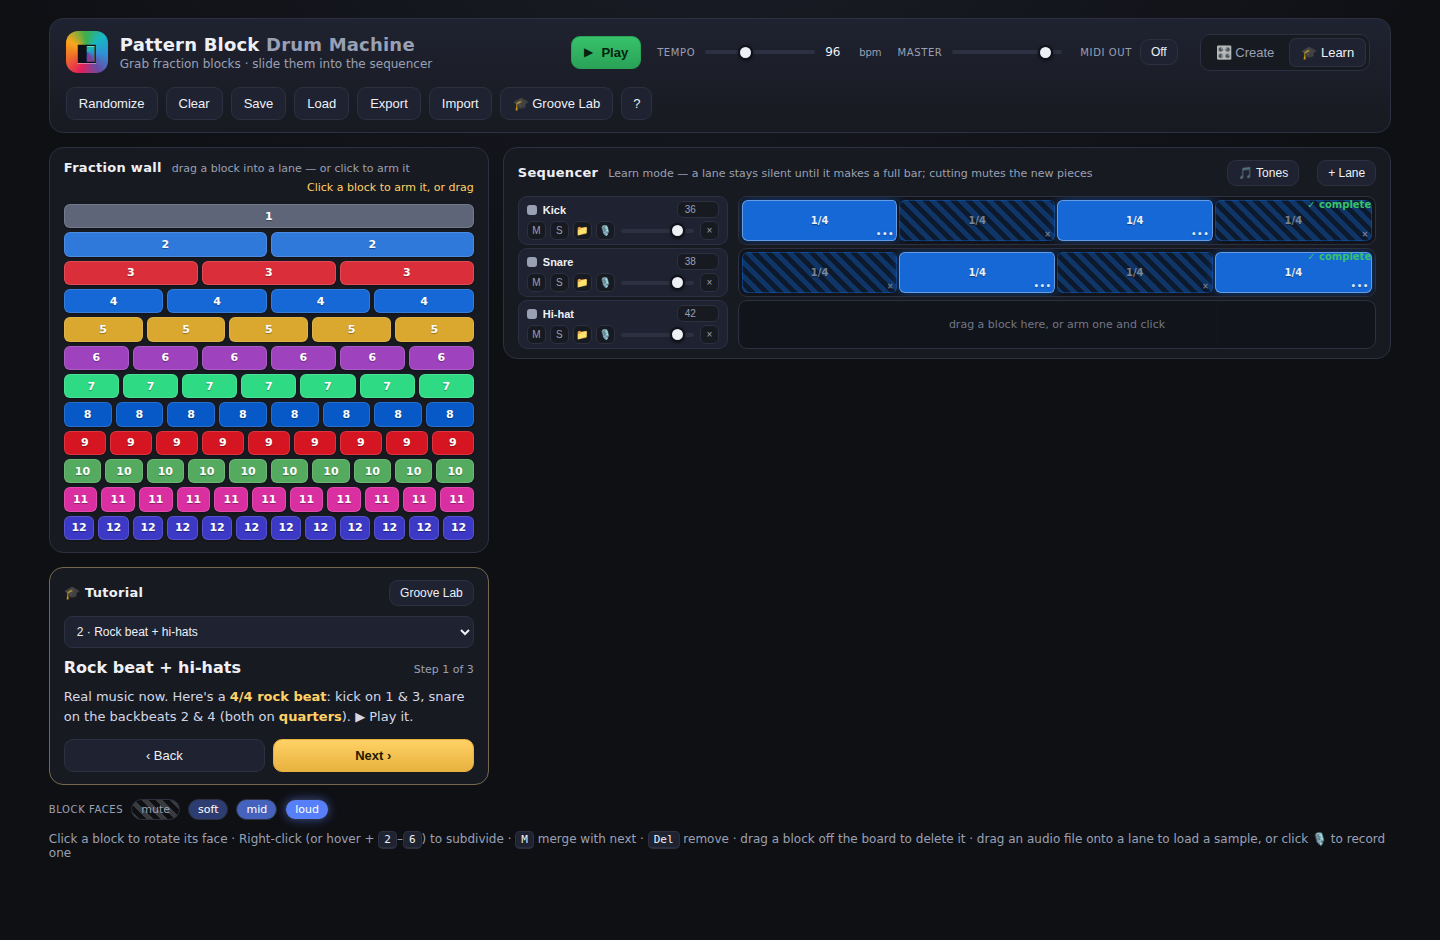
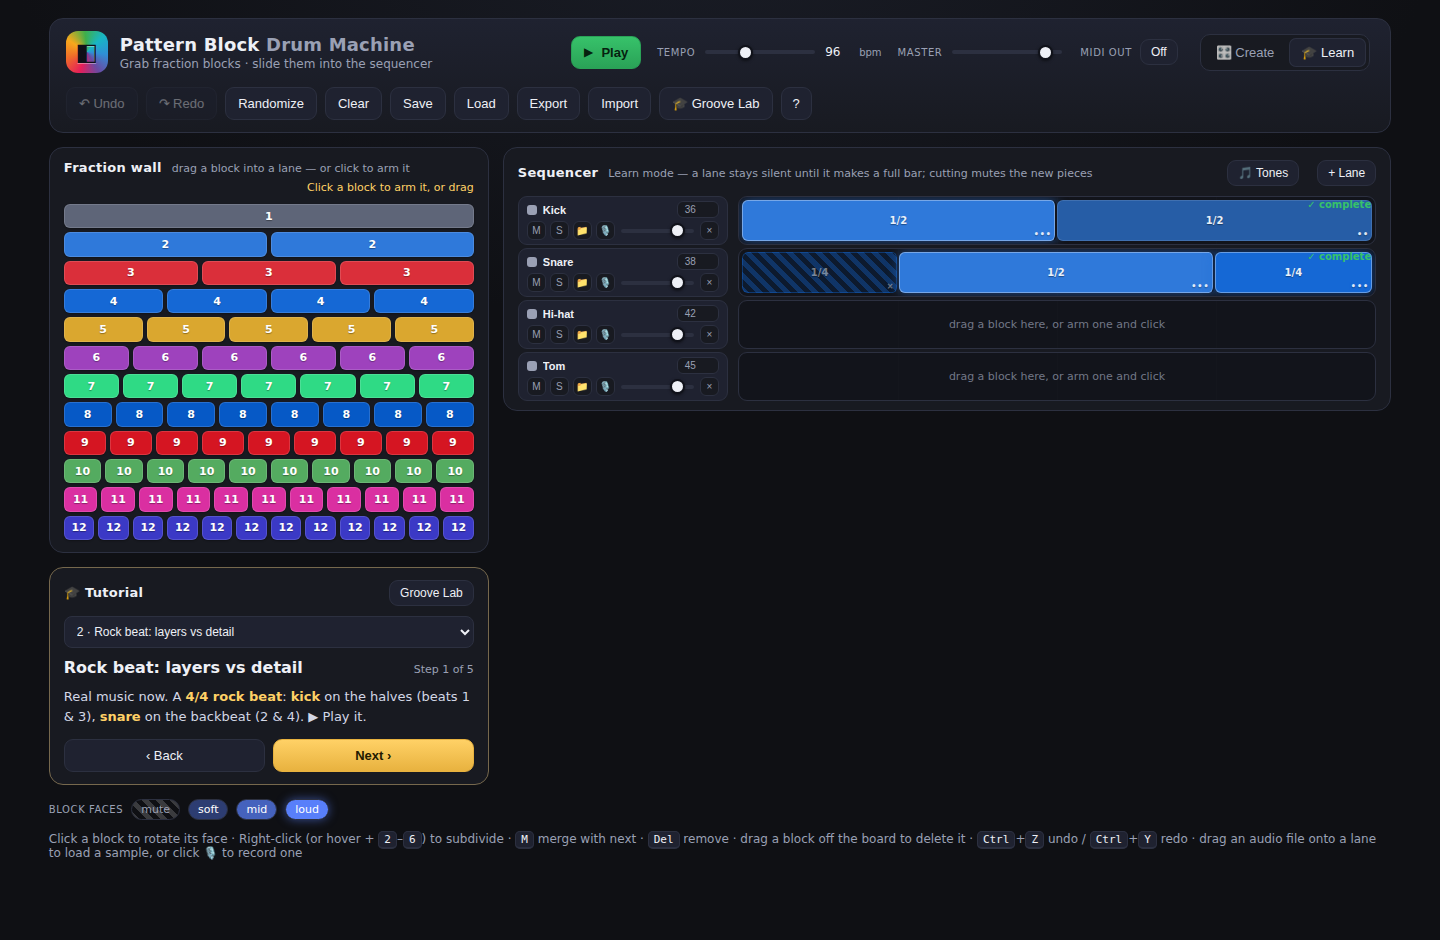
Add undo/redo; flesh out lessons with layers and the "new prime changes feel" idea
Undo/redo:
- Ctrl+Z / Ctrl+Y (and Ctrl+Shift+Z) plus toolbar buttons, disabled when
  their stack is empty.
- Every mutating edit (place, move, delete, rotate, subdivide, merge,
  clear, randomize, add/remove lane, cycle voice, load/record sample,
  load/import) snapshots first. Snapshots are in-memory and keep
  AudioBuffer references, so undo never drops a loaded/recorded sample
  (plain serialize would). History resets on mode/lesson change.
- Mode memory now uses the same buffer-preserving snapshot.

Lessons/kit:
- Default kick is now two halves (beats 1 & 3).
- Lesson 2 reworked to "layers vs detail": rock kick(halves)+backbeat
  snare, add eighth hats (still all 2s -> locks, same feel), then a lane
  of thirds (new factor of 3 -> the groove changes). Teaches that detail
  in the same prime family adds density while a new prime changes feel.
- Lesson 3 blues now has a ba-bum kick and a backbeat snare, and the ride
  uses the open-hat voice instead of the rimshot.

Cache-bust bumped to v=13.

Claude-Session: https://claude.ai/code/session_01JLy3ZtVPaGqb343nudpiEm

diff --git a/app.js b/app.js
@@ -139,8 +139,8 @@ function registerAllFractions() {
 function seedDefault() {
   laneSeq = 0;
   state.lanes = [
-    // Kick: beat 1 (a half) then beat 3.
-    newLane(0, [blk(1, 2, 'loud'), blk(1, 4, 'loud'), blk(1, 4, 'mute')]),
+    // Kick: on the halves — beats 1 & 3.
+    newLane(0, [blk(1, 2, 'loud'), blk(1, 2, 'mid')]),
     // Snare: on the backbeats — quarter of silence, then a half (beat 2), then a
     // quarter (beat 4). Hits land on 2 and 4.
     newLane(1, [blk(1, 4, 'mute'), blk(1, 2, 'loud'), blk(1, 4, 'loud')]),
@@ -746,12 +746,14 @@ function capacityLabel(sumFrac) {
 
 /* ------------------------------ block ops ------------------------------ */
 function rotateFace(lane, bi) {
+  pushUndo();
   const b = lane.blocks[bi];
   b.face = FACES[(FACES.indexOf(b.face) + 1) % FACES.length];
   markDirty(); renderSeq();
 }
 
 function subdivide(li, bi, k) {
+  pushUndo();
   const lane = state.lanes[li];
   const b = lane.blocks[bi];
   // In Learn mode, cutting keeps only the first piece sounding and mutes the
@@ -768,6 +770,7 @@ function subdivide(li, bi, k) {
 function mergeWithNext(li, bi) {
   const lane = state.lanes[li];
   if (bi >= lane.blocks.length - 1) { toast('Nothing after this block to merge'); return; }
+  pushUndo();
   const a = lane.blocks[bi], b = lane.blocks[bi + 1];
   const n = a.n * b.d + b.n * a.d;
   const d = a.d * b.d;
@@ -777,6 +780,7 @@ function mergeWithNext(li, bi) {
 }
 
 function deleteBlock(li, bi) {
+  pushUndo();
   state.lanes[li].blocks.splice(bi, 1);
   markDirty(); renderSeq();
 }
@@ -785,6 +789,7 @@ function insertBlock(li, index, block) {
   const lane = state.lanes[li];
   const sum = laneSum(lane);
   if (sum + fval(block) > 1 + 1e-6) return false;   // would overflow the bar
+  pushUndo();
   lane.blocks.splice(index, 0, block);
   markDirty(); renderSeq();
   return true;
@@ -806,19 +811,16 @@ function handleBlockDrop(e, li, track) {
   let index = dropIndexFor(track, e.clientX);
 
   if (d.kind === 'move') {
-    // remove from source first (adjust index if same lane and before insert point)
     const src = state.lanes[d.fromLane];
-    const moved = src.blocks.splice(d.fromIdx, 1)[0];
-    if (d.fromLane === li && d.fromIdx < index) index--;
     const target = state.lanes[li];
-    const sumWithout = laneSum(target);
-    if (sumWithout + fval(moved) > 1 + 1e-6) {
-      // doesn't fit — put it back
-      src.blocks.splice(d.fromIdx, 0, moved);
-      rejectFlash(track); toast('No room in that lane');
-    } else {
-      target.blocks.splice(index, 0, moved);
-    }
+    const moved = src.blocks[d.fromIdx];
+    // does it fit? (moving within a lane doesn't change that lane's total)
+    const targetSum = laneSum(target) - (d.fromLane === li ? fval(moved) : 0);
+    if (targetSum + fval(moved) > 1 + 1e-6) { rejectFlash(track); toast('No room in that lane'); return; }
+    pushUndo();
+    src.blocks.splice(d.fromIdx, 1);
+    if (d.fromLane === li && d.fromIdx < index) index--;
+    target.blocks.splice(index, 0, moved);
     markDirty(); renderSeq();
   } else {
     if (!insertBlock(li, index, blk(d.n, d.d, d.face))) {
@@ -834,15 +836,18 @@ function rejectFlash(track) {
 
 /* ------------------------------ lanes ---------------------------------- */
 function addLane() {
+  pushUndo();
   state.lanes.push(newLane(state.lanes.length));
   if (ctx) ensureLaneNode(state.lanes[state.lanes.length - 1]);
   markDirty(); applyLaneGains(); renderSeq();
 }
 function removeLane(li) {
+  pushUndo();
   state.lanes.splice(li, 1);
   markDirty(); applyLaneGains(); renderSeq();
 }
 function cycleVoice(lane) {
+  pushUndo();
   stopSources(lane);
   lane.voice = (lane.voice + 1) % VOICES.length;
   lane.buffer = null;
@@ -862,6 +867,7 @@ async function decodeInto(lane, file) {
   try {
     const buf = await file.arrayBuffer();
     const audio = await ctx.decodeAudioData(buf);
+    pushUndo();
     stopSources(lane);                    // cut the old sample if it's still playing
     lane.buffer = audio;
     lane.name = file.name.replace(/\.[^.]+$/, '');
@@ -1112,6 +1118,7 @@ function sliceBuffer(buffer, startFrac, endFrac) {
 
 function useRecording() {
   if (!recBuffer || !recLane) return;
+  pushUndo();
   stopSources(recLane);
   recLane.buffer = sliceBuffer(recBuffer, recTrim.start, recTrim.end);
   recLane.name = 'Rec ' + ++recCounter;
@@ -1160,6 +1167,66 @@ function toast(msg) {
   toastTimer = setTimeout(() => (t.hidden = true), 1800);
 }
 
+/* ------------------------------ undo / redo ---------------------------- */
+// In-memory snapshots (unlike serialize(), these keep AudioBuffer references so
+// undoing an edit doesn't drop a lane's loaded/recorded sample).
+let undoStack = [], redoStack = [];
+const UNDO_LIMIT = 200;
+
+function snapshotState() {
+  return {
+    bpm: state.bpm, master: state.master, tones: state.tones,
+    denominators: state.denominators.slice(),
+    lanes: state.lanes.map((l) => ({
+      id: l.id, name: l.name, voice: l.voice, gain: l.gain, muted: l.muted, solo: l.solo,
+      midi: l.midi, buffer: l.buffer,
+      blocks: l.blocks.map((b) => ({ n: b.n, d: b.d, face: b.face })),
+    })),
+  };
+}
+function restoreState(snap) {
+  stopSources();
+  state.bpm = snap.bpm; state.master = snap.master; state.tones = !!snap.tones;
+  state.denominators = snap.denominators.slice();
+  state.lanes = snap.lanes.map((s) => {
+    const lane = newLane(s.voice, s.blocks.map((b) => blk(b.n, b.d, b.face)));
+    lane.id = s.id; lane.name = s.name; lane.gain = s.gain; lane.muted = s.muted;
+    lane.solo = s.solo; lane.midi = s.midi; lane.buffer = s.buffer || null;
+    return lane;
+  });
+  laneSeq = state.lanes.reduce((m, l) => Math.max(m, l.id), laneSeq);
+  if (masterNode) masterNode.gain.setTargetAtTime(state.master, ctx.currentTime, 0.01);
+  if (ctx) { state.lanes.forEach(ensureLaneNode); applyLaneGains(); }
+  registerAllFractions();
+  syncControls(); markDirty(); renderPalette(); renderSeq();
+}
+
+// Call before any pattern-mutating edit.
+function pushUndo() {
+  undoStack.push(snapshotState());
+  if (undoStack.length > UNDO_LIMIT) undoStack.shift();
+  redoStack.length = 0;
+  updateUndoButtons();
+}
+function clearUndo() { undoStack.length = 0; redoStack.length = 0; updateUndoButtons(); }
+function undo() {
+  if (!undoStack.length) { toast('Nothing to undo'); return; }
+  redoStack.push(snapshotState());
+  restoreState(undoStack.pop());
+  updateUndoButtons();
+}
+function redo() {
+  if (!redoStack.length) { toast('Nothing to redo'); return; }
+  undoStack.push(snapshotState());
+  restoreState(redoStack.pop());
+  updateUndoButtons();
+}
+function updateUndoButtons() {
+  const u = $('#undoBtn'), r = $('#redoBtn');
+  if (u) u.disabled = !undoStack.length;
+  if (r) r.disabled = !redoStack.length;
+}
+
 /* ------------------------------ persistence ---------------------------- */
 const SAVE_KEY = 'pbdm.pattern.v1';
 function serialize() {
@@ -1194,7 +1261,7 @@ function saveLocal() { localStorage.setItem(SAVE_KEY, JSON.stringify(serialize()
 function loadLocal() {
   const raw = localStorage.getItem(SAVE_KEY);
   if (!raw) { toast('Nothing saved yet'); return; }
-  try { deserialize(JSON.parse(raw)); toast('Loaded save'); } catch { toast('Save was corrupt'); }
+  try { pushUndo(); deserialize(JSON.parse(raw)); toast('Loaded save'); } catch { toast('Save was corrupt'); }
 }
 function exportJSON() {
   const blob = new Blob([JSON.stringify(serialize(), null, 2)], { type: 'application/json' });
@@ -1205,6 +1272,7 @@ function exportJSON() {
 
 /* ------------------------------ randomize ------------------------------ */
 function randomize() {
+  pushUndo();
   const choices = [
     [[2, 'a'], [4, 'a']], // halves/quarters
     [[3, 'a']], [[4, 'a']], [[5, 'a']], [[6, 'a']], [[8, 'a']],
@@ -1230,6 +1298,7 @@ function randomize() {
 }
 
 function clearAll() {
+  pushUndo();
   state.lanes.forEach((l) => (l.blocks = []));
   markDirty(); renderSeq();
 }
@@ -1239,13 +1308,14 @@ let createSnapshot = null;   // remembers the Create-mode pattern while in Learn
 
 function setMode(mode) {
   if (mode === state.mode) return;
+  clearUndo();   // undo history is scoped to the current editing context
   if (mode === 'learn') {
-    createSnapshot = serialize();          // stash the free-play pattern
+    createSnapshot = snapshotState();      // stash the free-play pattern (keeps samples)
     state.mode = 'learn';
     enterLesson(state.lesson || 0);        // reset the board for the tutorial
   } else {
     state.mode = 'create';
-    if (createSnapshot) { deserialize(createSnapshot); createSnapshot = null; }   // bring it back
+    if (createSnapshot) { restoreState(createSnapshot); createSnapshot = null; }   // bring it back
     else { markDirty(); renderSeq(); }
   }
   $('#modeCreate').classList.toggle('active', mode === 'create');
@@ -1298,28 +1368,32 @@ const LESSONS = [
     ],
   },
   {
-    name: '2 · Rock beat + hi-hats',
+    name: '2 · Rock beat: layers vs detail',
     setup: () => tutLanes([
-      { voice: 0, name: 'Kick', blocks: [q('loud'), q('mute'), q('loud'), q('mute')] },
-      { voice: 1, name: 'Snare', blocks: [q('mute'), q('loud'), q('mute'), q('loud')] },
+      { voice: 0, name: 'Kick', blocks: [half('loud'), half('mid')] },
+      { voice: 1, name: 'Snare', blocks: [q('mute'), half('loud'), q('loud')] },
       { voice: 3, name: 'Hi-hat' },
+      { voice: 5, name: 'Tom' },
     ]),
     steps: [
-      { text: "Real music now. Here's a <b>4/4 rock beat</b>: kick on 1 & 3, snare on the backbeats 2 & 4 (both on <b>quarters</b>). ▶ Play it." },
-      { text: "Add <b>hi-hats</b>: fill the Hi-hat lane with <b>eighths</b> (⅛). Drag in ⅛ blocks, or place a quarter and cut it in two.", done: () => laneAllUnit(2, 8) },
-      { text: "Now three lanes share the <b>eighth-note grid</b>. But <b>8 is a multiple of 4</b> — the hats land exactly on and between the quarters. They <b>lock</b>: no cross-rhythm, just finer detail. That's why straight rock feels solid, not swung." },
+      { text: "Real music now. A <b>4/4 rock beat</b>: <b>kick</b> on the halves (beats 1 & 3), <b>snare</b> on the backbeat (2 & 4). ▶ Play it." },
+      { text: "Add <b>hi-hats</b>: fill the Hi-hat lane with <b>eighths</b> (⅛).", done: () => laneAllUnit(2, 8) },
+      { text: "Busier — but the <b>same groove</b>, right? 2, 4 and 8 are all made of <b>2s</b>, so they share the eighth grid and <b>lock</b>. A detail that stays in the family doesn't change the feel, just the density." },
+      { text: "Now a detail that <i>does</i>: fill the <b>Tom</b> lane with <b>thirds</b> (⅓).", done: () => laneAllUnit(3, 3) },
+      { text: "Feel the pull? Thirds bring a factor of <b>3</b> the 2-grid never had, so the shared grid leaps (LCM jumps to 24). A detail that adds a <b>new prime</b> changes the <b>feel</b> — that's the line between 'busier' and 'a new groove'." },
     ],
   },
   {
     name: '3 · Blues shuffle (6/8)',
     setup: () => tutLanes([
-      { voice: 0, name: 'Pulse', blocks: [half('loud'), half('loud')] },
-      { voice: 7, name: 'Ride' },
+      { voice: 0, name: 'Kick', blocks: [blk(1, 4, 'loud'), blk(1, 8, 'mute'), blk(1, 8, 'loud'), blk(1, 2, 'mute')] },
+      { voice: 1, name: 'Snare', blocks: [q('mute'), half('loud'), q('loud')] },
+      { voice: 4, name: 'Ride' },
     ]),
     steps: [
-      { text: "A <b>blues shuffle</b> feels 'in 2' but rolls underneath. Here's the <b>½-note pulse</b> — the foot-tap. ▶ Play it." },
-      { text: "Now fill the <b>Ride</b> lane with <b>sixths</b> (⅙) — six even swung notes across the bar.", done: () => laneAllUnit(1, 6) },
-      { text: "Hear it? <b>6 lines up with 2</b> (6 is a multiple of 2): every ride note is either on the pulse or exactly between. It <b>locks</b> — but the triplet subdivision gives blues and jazz that rolling <b>shuffle</b> lope. Subdivision makes feel, not just polyrhythm." },
+      { text: "A <b>blues shuffle</b>: a 'ba-bum' kick and a backbeat snare, felt 'in 2'. ▶ Play the bed." },
+      { text: "Add the <b>ride</b>: fill the Ride lane with <b>sixths</b> (⅙) — the shuffle's triplet roll.", done: () => laneAllUnit(2, 6) },
+      { text: "Hear it? <b>6 lines up with 2</b> (6 is a multiple of 2): the triplets land on and between the pulse, so it <b>locks</b> — but that subdivision is the rolling <b>shuffle</b> of blues and jazz. Same trick as the rock hats, funkier flavour." },
     ],
   },
   {
@@ -1353,6 +1427,7 @@ function currentLesson() { return LESSONS[state.lesson] || LESSONS[0]; }
 function currentStep() { return currentLesson().steps[state.step] || currentLesson().steps[0]; }
 
 function enterLesson(li, runSetup = true) {
+  clearUndo();   // a fresh lesson starts a fresh undo history
   state.lesson = Math.max(0, Math.min(LESSONS.length - 1, li));
   state.step = 0;
   if (runSetup && currentLesson().setup) currentLesson().setup();
@@ -1592,6 +1667,8 @@ function wireControls() {
     if (midiAccess) midiOut = midiAccess.outputs.get(e.target.value) || midiOut;
   });
 
+  $('#undoBtn').addEventListener('click', undo);
+  $('#redoBtn').addEventListener('click', redo);
   $('#modeCreate').addEventListener('click', () => setMode('create'));
   $('#modeLearn').addEventListener('click', () => setMode('learn'));
   $('#tonesToggle').addEventListener('click', toggleTones);
@@ -1623,7 +1700,7 @@ function wireControls() {
   });
   $('#jsonInput').addEventListener('change', async (e) => {
     const f = e.target.files[0];
-    if (f) { try { deserialize(JSON.parse(await f.text())); toast('Imported'); } catch { toast('Invalid JSON'); } }
+    if (f) { try { const data = JSON.parse(await f.text()); pushUndo(); deserialize(data); toast('Imported'); } catch { toast('Invalid JSON'); } }
     e.target.value = '';
   });
 
@@ -1637,6 +1714,12 @@ function wireControls() {
     }
     if (recOpen || labOpen || helpOpen) return;   // don't fire board shortcuts behind a modal
     if (e.target.matches('input, textarea')) return;
+    // Undo / redo (Ctrl/Cmd+Z, Ctrl/Cmd+Y or Shift+Z)
+    if (e.ctrlKey || e.metaKey) {
+      const k = e.key.toLowerCase();
+      if (k === 'z' && !e.shiftKey) { e.preventDefault(); undo(); return; }
+      if (k === 'y' || (k === 'z' && e.shiftKey)) { e.preventDefault(); redo(); return; }
+    }
     if (e.code === 'Space') { e.preventDefault(); state.playing ? stop() : play(); return; }
     if (e.key === 'Escape' && armed) { disarm(); return; }
     if (!hoverTarget) return;

diff --git a/index.html b/index.html
@@ -5,7 +5,7 @@
   <meta name="viewport" content="width=device-width, initial-scale=1.0" />
   <title>Pattern Block Drum Machine</title>
   <meta name="description" content="Grab fraction blocks from the wall and slide them into a sampler sequencer. Rotate block faces for dynamics, subdivide beats." />
-  <link rel="stylesheet" href="styles.css?v=12" />
+  <link rel="stylesheet" href="styles.css?v=13" />
 </head>
 <body>
   <div id="app">
@@ -47,6 +47,8 @@
       </div>
 
       <div class="tools">
+        <button id="undoBtn" class="btn" title="Undo (Ctrl+Z)" disabled>↶ Undo</button>
+        <button id="redoBtn" class="btn" title="Redo (Ctrl+Y)" disabled>↷ Redo</button>
         <button id="randomize" class="btn" title="Randomize a pattern">Randomize</button>
         <button id="clear" class="btn" title="Empty every lane">Clear</button>
         <button id="save" class="btn" title="Save to this browser">Save</button>
@@ -112,6 +114,7 @@
       <div class="legend-hint">
         Click a block to rotate its face · Right-click (or hover + <kbd>2</kbd>–<kbd>6</kbd>) to subdivide ·
         <kbd>M</kbd> merge with next · <kbd>Del</kbd> remove · drag a block off the board to delete it ·
+        <kbd>Ctrl</kbd>+<kbd>Z</kbd> undo / <kbd>Ctrl</kbd>+<kbd>Y</kbd> redo ·
         drag an audio file onto a lane to load a sample, or click 🎙 to record one
       </div>
     </footer>
@@ -233,6 +236,6 @@
   <input id="fileInput" type="file" accept="audio/*" hidden />
   <input id="jsonInput" type="file" accept="application/json,.json" hidden />
 
-  <script src="app.js?v=12"></script>
+  <script src="app.js?v=13"></script>
 </body>
 </html>

diff --git a/styles.css b/styles.css
@@ -99,6 +99,8 @@ input[type=range]::-moz-range-thumb {
 }
 .btn:hover { background: #262a3a; border-color: #3a4055; }
 .btn:active { transform: translateY(1px); }
+.btn:disabled { opacity: .38; cursor: not-allowed; }
+.btn:disabled:hover { background: var(--panel-2); border-color: var(--line); }
 .btn-ghost { padding: 8px 11px; }
 .btn-sm { padding: 5px 10px; font-size: 12px; margin-left: auto; }
 

diff --git a/README.md b/README.md
@@ -92,11 +92,14 @@ you switch out. It's a set of lessons you can step through or jump between:
 
 1. **Polyrhythm basics** — build a 2-against-3, then solve *cut the pieces until
    both lanes are the same size* and discover they meet at **sixths** (the LCM).
-2. **Rock beat + hi-hats** — a real 4/4 kick-and-backbeat; add eighth-note hats
-   and see that because `8` is a multiple of `4` they **lock** — finer detail, no
-   cross-rhythm. That's why straight rock feels solid.
-3. **Blues shuffle (6/8)** — a half-note pulse with sixths over it; `6` lines up
-   with `2`, so it locks, but the triplet subdivision gives it that rolling swing.
+2. **Rock beat: layers vs detail** — a real kick-and-backbeat; add eighth hats
+   (still all `2`s, so they **lock** — busier, same feel) and then a lane of
+   **thirds**, which brings a new factor of `3` and suddenly *changes the groove*.
+   The lesson: detail on the same prime family adds density; a new prime changes
+   the feel.
+3. **Blues shuffle (6/8)** — a "ba-bum" kick and backbeat snare felt in 2; add a
+   ride on **sixths** and hear `6` lock onto the `2`-pulse as a rolling triplet
+   shuffle.
 4. **Cross-rhythm (world music)** — the 3-against-2 that drives West-African and
    Afro-Cuban music (the 6/8 bell, the hemiola), with a nod to clave/bossa
    syncopation.
@@ -122,13 +125,18 @@ Pick any two numbers, or hit **Use my lanes**, and it live-computes:
   **7-limit just intonation and beyond** — so septimal ratios like `7/6` come
   back as a *subminor third*, not "custom", the way Ben Johnston would want.
 
-### Keyboard shortcuts (while hovering a block)
+Every edit is **undoable** — <kbd>Ctrl</kbd>+<kbd>Z</kbd> / <kbd>Ctrl</kbd>+<kbd>Y</kbd>
+(or the ↶ / ↷ buttons). Undo snapshots keep loaded/recorded samples intact, and
+the history resets when you switch modes or lessons.
+
+### Keyboard shortcuts
 
 | Key | Action |
 | --- | --- |
-| <kbd>2</kbd>–<kbd>6</kbd> | Subdivide into that many pieces |
-| <kbd>M</kbd> | Merge with the next block |
-| <kbd>Del</kbd> / <kbd>Backspace</kbd> | Remove the block |
+| <kbd>2</kbd>–<kbd>6</kbd> | Subdivide the hovered block into that many pieces |
+| <kbd>M</kbd> | Merge the hovered block with the next one |
+| <kbd>Del</kbd> / <kbd>Backspace</kbd> | Remove the hovered block |
+| <kbd>Ctrl</kbd>+<kbd>Z</kbd> / <kbd>Ctrl</kbd>+<kbd>Y</kbd> | Undo / redo (also <kbd>Ctrl</kbd>+<kbd>Shift</kbd>+<kbd>Z</kbd>) |
 | <kbd>Esc</kbd> | Put down the armed brush |
 | <kbd>Space</kbd> | Play / stop |
 
